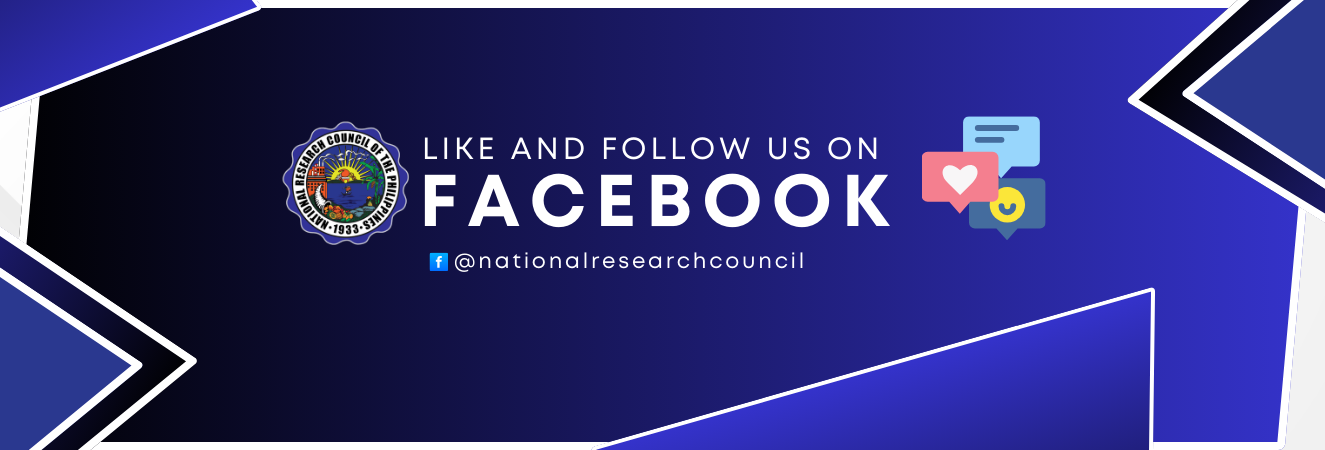
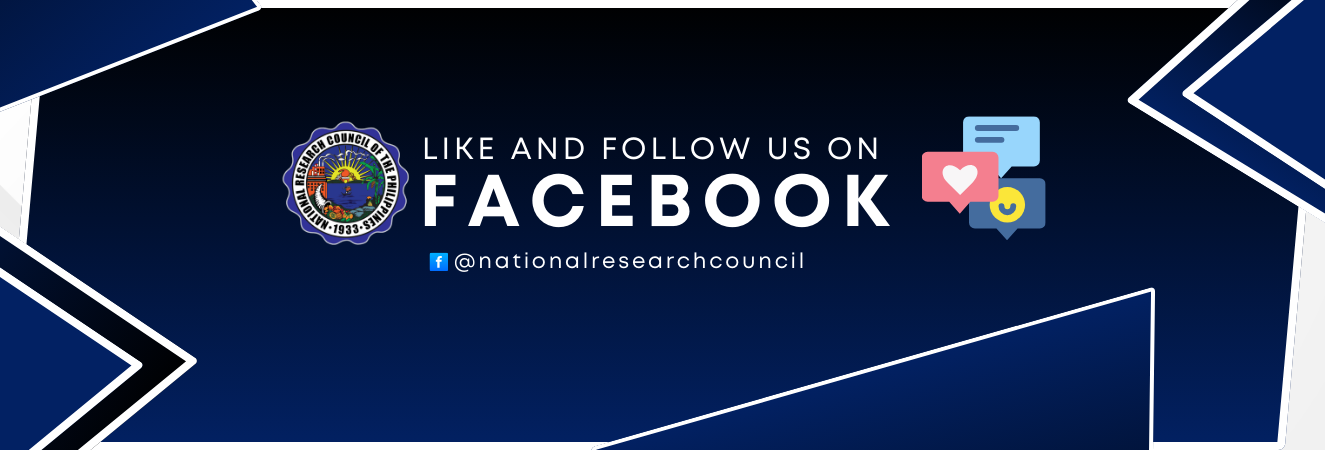
picsupdated

diff --git a/resources/css/styles/landing/LandingPage.css b/resources/css/styles/landing/LandingPage.css
@@ -22,7 +22,6 @@
     padding: 1.5rem;
     background-color: #fff;
     border-radius: 8px;
-    box-shadow: 0 2px 4px rgba(0, 0, 0, 0.1);
 }
 
 /* First row: EventCarousel takes all 3 columns */
@@ -61,7 +60,6 @@
     padding: 1.5rem; /* Optional padding */
     background-color: #fff; /* Ensure background color matches */
     border-radius: 8px; /* Rounded corners */
-    box-shadow: 0 2px 4px rgba(0, 0, 0, 0.1); /* Drop shadow */
 }
 
 .thursday-wellness-section {
@@ -73,7 +71,6 @@
     padding: 1.5rem;
     background-color: #fff;
     border-radius: 8px;
-    box-shadow: 0 2px 4px rgba(0, 0, 0, 0.1);
     height: 827px;
 }
 
@@ -114,7 +111,6 @@
     background-color: #fff;
     padding: 1rem;
     border-radius: 8px;
-    box-shadow: 0 2px 4px rgba(0, 0, 0, 0.1);
     text-align: right;
 }
 

diff --git a/resources/css/styles/landing/ThursdayWellness.css b/resources/css/styles/landing/ThursdayWellness.css
@@ -42,7 +42,7 @@
     min-height: 120px;
     display: flex;
     align-items: center;
-    background-color: #2a388f;
+    background-color: #022163;
     border-radius: 8px;
     transition: all 0.2s;
     padding: 1rem;
@@ -52,7 +52,7 @@
 
 .wellness-date {
     background-color: #ffffff;
-    color: #2a388f;
+    color: #022163;
     padding: 0.5rem;
     border-radius: 6px;
     min-width: 80px;
@@ -91,11 +91,11 @@
 .wellness-item-container:hover .time-info,
 .wellness-item-container:hover .location-info,
 .wellness-item-container:hover .participant-info {
-    color: #2a388f;  
+    color: #022163;  
 }
 
 .wellness-item-container:hover .sport-title {
-    color: #2a388f; 
+    color: #022163; 
 }
 
 

diff --git a/resources/css/styles/landing/LandingHeader.css b/resources/css/styles/landing/LandingHeader.css
@@ -43,7 +43,7 @@
 .title {
     font-size: 1.5rem;
     font-weight: bold;
-    color: #2a388f;
+    color: #022163;
     display: inline-block;
     font-family:helvetica;
     margin-left: 7px;
@@ -62,7 +62,7 @@
 }
 
 .link:hover {
-    color: #2a388f;
+    color: #022163;
 }
 
 .right-container {
@@ -71,7 +71,7 @@
 }
 
 .login-button {
-    background-color: #2a388f;
+    background-color: #022163;
     color: white;
     border: none;
     padding: 0.5rem 1rem;
@@ -81,7 +81,7 @@
 }
 
 .login-button:hover {
-    background-color: #2a388f;
+    background-color: #022163;
 }
 
 /* Add this to your main content wrapper */

diff --git a/resources/css/styles/landing/SuggestionBox.css b/resources/css/styles/landing/SuggestionBox.css
@@ -1,6 +1,6 @@
 .suggestion-container {
     width: 83%; /* Width for the box */
-    background-color: #2a388f; /* Lighter shade */
+    background-color: #022163; /* Lighter shade */
     color: white;
     padding: 1rem; /* Reduced padding */
     padding-top: 0.5rem; /* Slightly reduced top padding */
@@ -62,8 +62,8 @@
 
 .suggestion-button:hover {
     background-color: #fcfcfc; /* Lighter shade on hover */
-    color: #2a388f; 
-    border: 1px solid #2a388f;
+    color: #022163; 
+    border: 1px solid #022163;
 }
 
 .status-message {

diff --git a/resources/css/styles/landing/SpecialEvents.css b/resources/css/styles/landing/SpecialEvents.css
@@ -25,7 +25,7 @@
 }
 
 .event-header {
-    background-color: #2a388f;
+    background-color: #022163;
     color: rgb(255, 255, 255);
     padding: 1rem;
     border-radius: 8px;
@@ -79,7 +79,7 @@
 .marker {
     width: 12px;
     height: 12px;
-    background-color: #2a388f;
+    background-color: #022163;
     border-radius: 50%;
     margin: 0.3rem 0;
 }
@@ -97,7 +97,7 @@
 
 .location {
     font-size: 0.9rem;
-    color: #2a388f;
+    color: #022163;
 }
 
 /* Scrollbar styling */

diff --git a/resources/css/styles/landing/LinkList.css b/resources/css/styles/landing/LinkList.css
@@ -44,7 +44,7 @@
     display: flex;
     align-items: center;
     justify-content: center;
-    background-color: #2a388f;
+    background-color: #022163;
     border-radius: 8px;
     transition: all 0.2s;
     padding: 1rem;
@@ -57,7 +57,7 @@
     height: 80px;
     object-fit: cover;
     border-radius: 50%;
-    border: 2px solid #2a388f;
+    border: 2px solid #022163;
     padding: 2px;
     background-color: rgb(255, 255, 255);
     margin-right: 1.5rem;

diff --git a/resources/css/styles/landing/Calendar.css b/resources/css/styles/landing/Calendar.css
@@ -27,7 +27,7 @@
     width: 24px;
     height: 24px;
     cursor: pointer;
-    color: #2a388f;
+    color: #022163;
 }
 
 .weekdays-grid {
@@ -81,7 +81,7 @@
 }
 
 .day-button.today {
-    background-color: #2a388f;
+    background-color: #022163;
 }
 
 .schedule-panel {

diff --git a/resources/css/styles/landing/FeatureCarousel.css b/resources/css/styles/landing/FeatureCarousel.css
@@ -11,7 +11,7 @@
     width: 100%;
     height: 240px;
     padding-top: 15%; /* This creates an aspect ratio of 2.5:1 */
-    background-color: #2a388f;
+    background-color: #022163;
     border-radius: 8px;
     overflow: hidden;
 }

diff --git a/resources/css/styles/landing/AnnouncementCarousel.css b/resources/css/styles/landing/AnnouncementCarousel.css
@@ -10,7 +10,7 @@
 }
 
 .announcement-container {
-    background-color: #2a388f;
+    background-color: #022163;
     padding: 0;
     border: 1px solid #dee2e6;
     border-radius: 8px;
